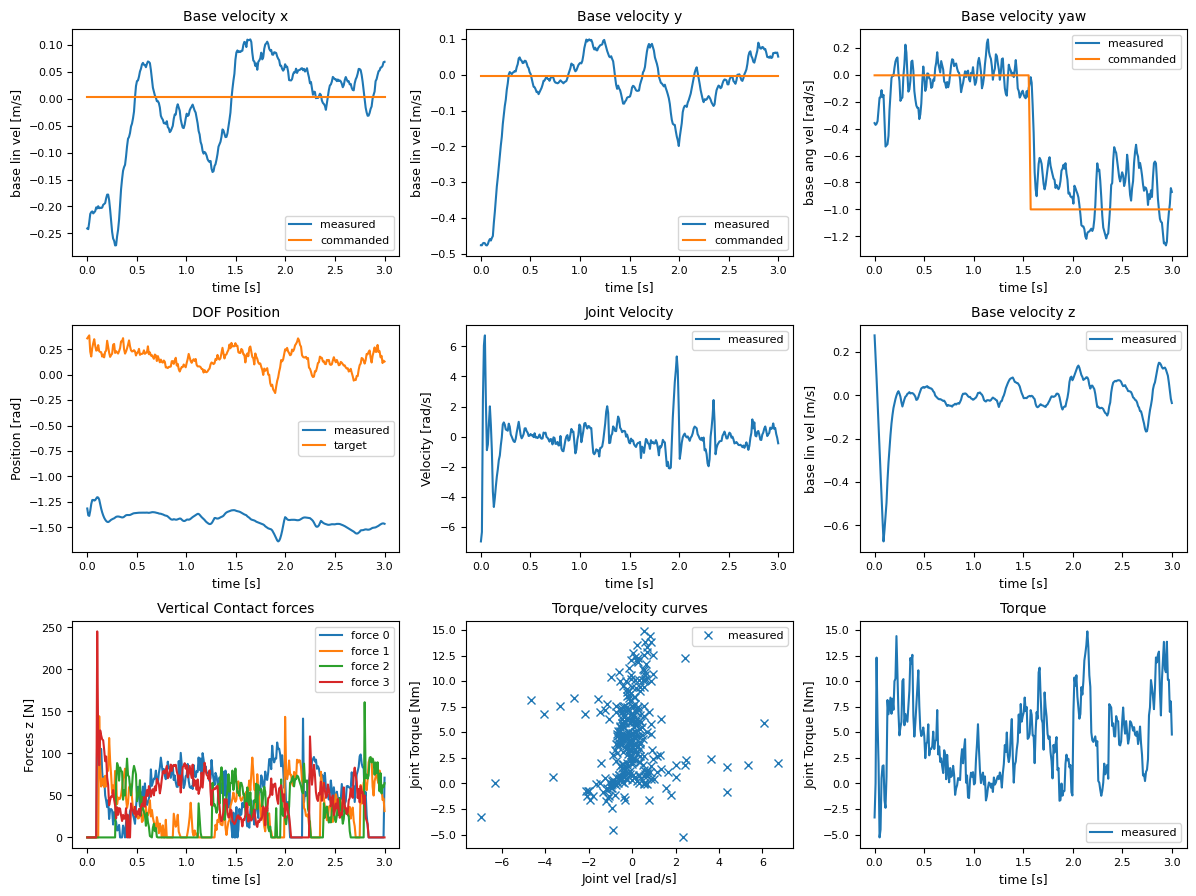
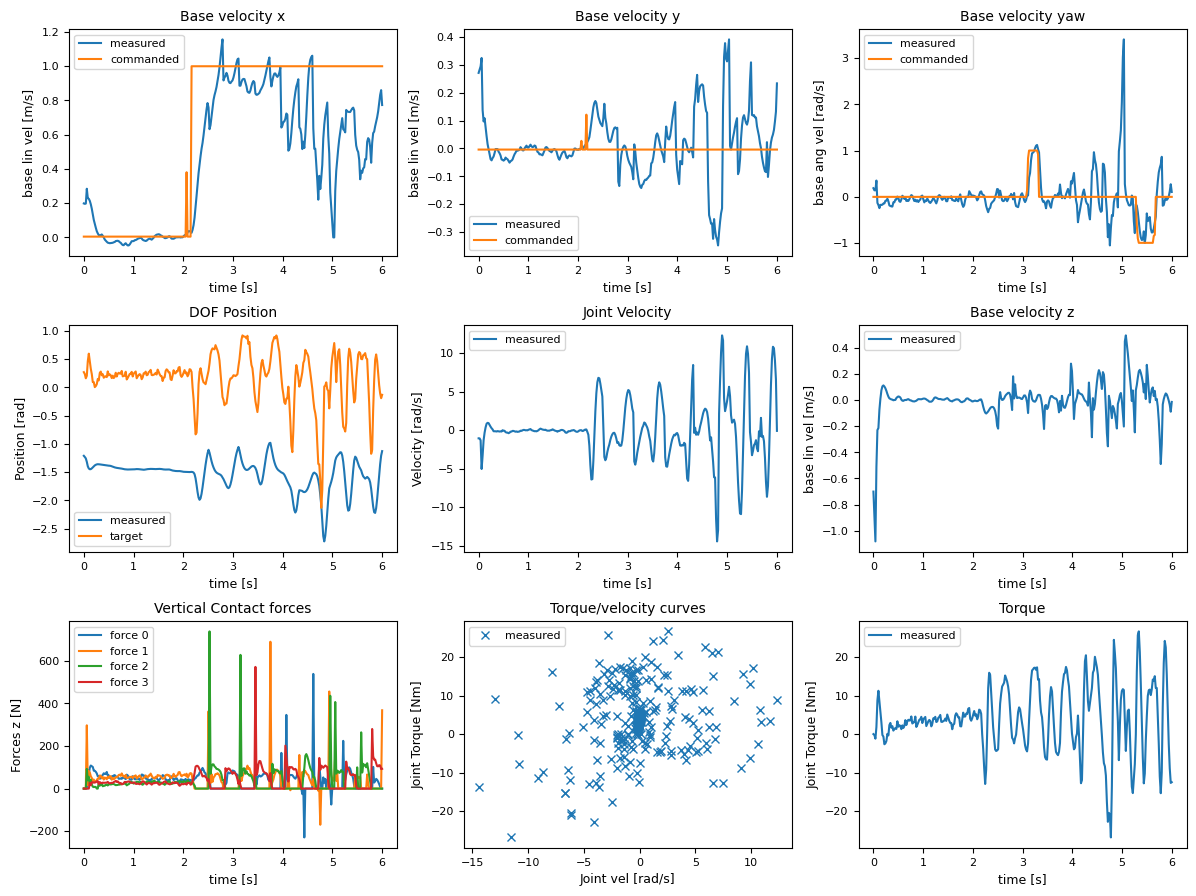
doing some testing. Need to restart on PACT if we want to really consider stair climbing

diff --git a/legged_gym/scripts/play_exp_water.py b/legged_gym/scripts/play_exp_water.py
@@ -20,7 +20,7 @@ def override_configs(env_cfg, train_cfg, args):
     task_name = args.task
     # override some parameters for testing
     # number of environments
-    env_cfg.env.num_envs = min(env_cfg.env.num_envs, 100)
+    env_cfg.env.num_envs = min(env_cfg.env.num_envs, 1)
     if "cts" in task_name:  # cts specific
         env_cfg.env.num_teacher = 1
     env_cfg.viewer.rendered_envs_idx = list(range(env_cfg.env.num_envs))
@@ -43,16 +43,16 @@ def override_configs(env_cfg, train_cfg, args):
         # env_cfg.terrain.terrain_kwargs = {"type": "terrain_utils.pyramid_sloped_terrain",
         #                                   "slope": 0.4, "platform_size": 3.0}
         # # stairs
-        env_cfg.terrain.terrain_kwargs = {"type": "terrain_utils.pyramid_stairs_terrain",
-                                        "step_width": 0.25, "step_height": -0.10, "platform_size": 3.0}
+        # env_cfg.terrain.terrain_kwargs = {"type": "terrain_utils.pyramid_stairs_terrain",
+                                        # "step_width": 0.25, "step_height": -0.06, "platform_size": 3.0}
 
         # # discrete obstacles
-        # env_cfg.terrain.terrain_kwargs = {"type": "terrain_utils.discrete_obstacles_terrain",
-        #                                   "max_height": 0.06,
-        #                                   "min_size": 1.0,
-        #                                   "max_size": 2.0,
-        #                                   "num_rects": 20,
-        #                                   "platform_size": 3.0}
+        env_cfg.terrain.terrain_kwargs = {"type": "terrain_utils.discrete_obstacles_terrain",
+                                          "max_height": 0.1,
+                                          "min_size": 1.0,
+                                          "max_size": 2.0,
+                                          "num_rects": 20,
+                                          "platform_size": 3.0}
         # # wave terrain
         # env_cfg.terrain.terrain_kwargs = {"type": "terrain_utils.wave_terrain", 
         #                                   "amplitude": 0.2, "num_waves": 2}
@@ -88,7 +88,7 @@ def override_configs(env_cfg, train_cfg, args):
     env_cfg.domain_rand.randomize_com_displacement = False
     env_cfg.domain_rand.randomize_pd_gain = False           # Maybe keep this on?
     env_cfg.domain_rand.push_robots = False
-    env_cfg.domain_rand.randomize_base_mass = True
+    env_cfg.domain_rand.randomize_base_mass = False
 
     env_cfg.asset.fix_base_link = False
     env_cfg.env.debug_viz = False
@@ -260,24 +260,24 @@ def interaction_loop(train_cfg, env, policy, args):
 
         # print(env.simulator.feedforward_torques.detach().cpu().numpy())
 
-        logger.log_states(
-            {
-                'base_cmd':env.commands.detach().cpu().numpy().tolist(),
-                'base_pose':env.simulator.base_pos.detach().cpu().numpy().tolist(),
-                'base_rpy':env.simulator.base_euler.detach().cpu().numpy().tolist(),
-                'dof_pose':env.simulator.dof_pos.detach().cpu().numpy().tolist(),
-                'base_lin_vel':env.simulator.base_lin_vel.detach().cpu().numpy().tolist(),
-                'base_ang_vel':env.simulator.base_ang_vel.detach().cpu().numpy().tolist(),
-                'dof_vel':env.simulator.dof_vel.detach().cpu().numpy().tolist(),
-                'proj_grav':env.simulator.projected_gravity.detach().cpu().numpy().tolist(),
-                'feet_pos':env.simulator.feet_pos.detach().cpu().numpy().tolist(),
-                'tau_act':env.simulator._dof_tau.detach().cpu().numpy().tolist(),
-                'grf':env.simulator._grfs_buf.detach().cpu().numpy().tolist(),
-                'q_des':env.get_scaled_pos_actions().detach().cpu().numpy().tolist(),
-                'tau_ff':env.simulator.feedforward_torques.detach().cpu().numpy().tolist(),
-                'tau_pd':env.simulator.first_loop_feedback.detach().cpu().numpy().tolist(),
-                'failure':list(map(int, env.get_failure_idx().detach().cpu().numpy().tolist()))
-            })
+        # logger.log_states(
+        #     {
+        #         'base_cmd':env.commands.detach().cpu().numpy().tolist(),
+        #         'base_pose':env.simulator.base_pos.detach().cpu().numpy().tolist(),
+        #         'base_rpy':env.simulator.base_euler.detach().cpu().numpy().tolist(),
+        #         'dof_pose':env.simulator.dof_pos.detach().cpu().numpy().tolist(),
+        #         'base_lin_vel':env.simulator.base_lin_vel.detach().cpu().numpy().tolist(),
+        #         'base_ang_vel':env.simulator.base_ang_vel.detach().cpu().numpy().tolist(),
+        #         'dof_vel':env.simulator.dof_vel.detach().cpu().numpy().tolist(),
+        #         'proj_grav':env.simulator.projected_gravity.detach().cpu().numpy().tolist(),
+        #         'feet_pos':env.simulator.feet_pos.detach().cpu().numpy().tolist(),
+        #         'tau_act':env.simulator._dof_tau.detach().cpu().numpy().tolist(),
+        #         'grf':env.simulator._grfs_buf.detach().cpu().numpy().tolist(),
+        #         'q_des':env.get_scaled_pos_actions().detach().cpu().numpy().tolist(),
+        #         'tau_ff':env.simulator.feedforward_torques.detach().cpu().numpy().tolist(),
+        #         'tau_pd':env.simulator.first_loop_feedback.detach().cpu().numpy().tolist(),
+        #         'failure':list(map(int, env.get_failure_idx().detach().cpu().numpy().tolist()))
+        #     })
 
 def export_policy(alg_runner, path: str, args, env_cfg, train_cfg):
     """export the policy as jit script according to different task types
@@ -316,7 +316,7 @@ def play(args):
     """
     if SIMULATOR == "genesis" or SIMULATOR == "genesis_pact_pos" or SIMULATOR == "genesis_pact" or SIMULATOR == "genesis_pact_water":
         init_genesis(args, gs)
-    env_cfg, train_cfg = task_registry.get_cfgs(name=args.task)
+    env_cfg, train_cfg = task_registry.get_cfgs(name=args.task, args=args)
     override_configs(env_cfg, train_cfg, args)
 
     # prepare environment
@@ -366,6 +366,9 @@ if __name__ == '__main__':
     parser.add_argument('--joystick_type',  type=str, default='xbox', help="type of joystick: xbox, switch")
     parser.add_argument('--follow_robot',   action='store_true', default=False, help="whether the camera follows the robot during play")
     parser.add_argument('--record_frames',   action='store_true', default=False, help="whether to record the camera")
+    parser.add_argument('--seed',       type=int, default=1, help="int seed for random sampling (default 1)")
+
+    parser.add_argument('--pinn_loss_weight',       type=float, default=0.01, help="float for weight of PINN loss (default 0.01)")
 
     parser.add_argument('--use_liquid',    type=bool, default='True')
     parser.add_argument('--liquid_type',   type=str, default='water', choices=['water', 'oil', 'gas'])

diff --git a/legged_gym/envs/go1/go1_pact_water_eval/go1_pact_water_config.py b/legged_gym/envs/go1/go1_pact_water_eval/go1_pact_water_config.py
@@ -3,50 +3,50 @@ from legged_gym.envs.base.legged_robot_config import LeggedRobotCfg, LeggedRobot
 class GO1PACTWaterCfg( LeggedRobotCfg ):
         
     class terrain( LeggedRobotCfg.terrain ):
-        mesh_type = 'plane' # plane, heightfield, trimesh
-        plane_length = 200.0 # [m]. plane size is 200x200x10 by default
-        horizontal_scale = 0.1 # [m] distance between height samples in x and y direction
-        vertical_scale = 0.005 # [m] distance between height samples in z direction
-        border_size = 5 # [m] length of the border surrounding the terrain
-        border_height = 1.0 # [m] height of the border surrounding the terrain
-        curriculum = False # whether to use terrain curriculum, starting from easier terrains and gradually increasing the difficulty
-        static_friction = 1.0 # coefficient of static friction of the terrain
-        dynamic_friction = 1.0 # coefficient of dynamic friction of the terrain
-        restitution = 0. # coefficient of restitution of the terrainr
-        obtain_terrain_info_around_feet = True
-
-        # # rough terrain only:
-        # mesh_type = "heightfield"
+        # mesh_type = 'plane' # plane, heightfield, trimesh
+        # plane_length = 200.0 # [m]. plane size is 200x200x10 by default
+        # horizontal_scale = 0.1 # [m] distance between height samples in x and y direction
+        # vertical_scale = 0.005 # [m] distance between height samples in z direction
+        # border_size = 5 # [m] length of the border surrounding the terrain
+        # border_height = 1.0 # [m] height of the border surrounding the terrain
+        # curriculum = False # whether to use terrain curriculum, starting from easier terrains and gradually increasing the difficulty
         # static_friction = 1.0 # coefficient of static friction of the terrain
         # dynamic_friction = 1.0 # coefficient of dynamic friction of the terrain
-        # restitution = 0. # coefficient of restitution of the terrain
-        # border_size = 20.0 # [m]
-        # curriculum = True
-        # # obtain terrain height information around feet (default: 9 points around feet), measure_
-        # # x  x   x
-        # # x F(x) x
-        # # x  x   x (x: height point, F: foot position)
+        # restitution = 0. # coefficient of restitution of the terrainr
         # obtain_terrain_info_around_feet = True
-        # measure_heights = True # obtain height measurements
+
+        # rough terrain only:
+        mesh_type = "heightfield"
+        static_friction = 1.0 # coefficient of static friction of the terrain
+        dynamic_friction = 1.0 # coefficient of dynamic friction of the terrain
+        restitution = 0. # coefficient of restitution of the terrain
+        border_size = 20.0 # [m]
+        curriculum = True
+        # obtain terrain height information around feet (default: 9 points around feet), measure_
+        # x  x   x
+        # x F(x) x
+        # x  x   x (x: height point, F: foot position)
+        obtain_terrain_info_around_feet = True
+        measure_heights = True # obtain height measurements
         
-        # # positions of the sampling height around the base (relative to the base of the robot)
-        # measured_points_x = [-0.4, -0.3, -0.2, -0.1, 0., 0.1, 0.2, 0.3, 0.4] # 9x9=81
-        # measured_points_y = [-0.4, -0.3, -0.2, -0.1, 0., 0.1, 0.2, 0.3, 0.4]
+        # positions of the sampling height around the base (relative to the base of the robot)
+        measured_points_x = [-0.4, -0.3, -0.2, -0.1, 0., 0.1, 0.2, 0.3, 0.4] # 9x9=81
+        measured_points_y = [-0.4, -0.3, -0.2, -0.1, 0., 0.1, 0.2, 0.3, 0.4]
         
-        # selected = False # select a unique terrain type and pass all arguments
-        # terrain_kwargs = None # Dict of arguments for selected terrain
-        # max_init_terrain_level = 1 # starting curriculum level
+        selected = False # select a unique terrain type and pass all arguments
+        terrain_kwargs = None # Dict of arguments for selected terrain
+        max_init_terrain_level = 1 # starting curriculum level
         
-        # terrain_length = 8.0 # [m] length of each subterrain, X direction
-        # terrain_width = 8.0 # [m] width of each subterrain, Y direction
-        # platform_size = 4.0 # [m] size of the flat platform at the center of each subterrain
-        # num_rows = 20  # number of terrain rows (levels), X direction
-        # num_cols = 10  # number of terrain cols (types), Y direction
-        # num_subterrains = num_rows * num_cols
-        # # terrain types: [smooth slope, rough slope, stairs up, stairs down, discrete, wave]
-        # terrain_proportions = [0.10, 0.20, 0.20, 0.20, 0.15, 0.15]
-        # # trimesh only:
-        # slope_treshold = 0.75 # slopes above this threshold will be corrected to vertical surfaces
+        terrain_length = 8.0 # [m] length of each subterrain, X direction
+        terrain_width = 8.0 # [m] width of each subterrain, Y direction
+        platform_size = 4.0 # [m] size of the flat platform at the center of each subterrain
+        num_rows = 20  # number of terrain rows (levels), X direction
+        num_cols = 10  # number of terrain cols (types), Y direction
+        num_subterrains = num_rows * num_cols
+        # terrain types: [smooth slope, rough slope, stairs up, stairs down, discrete, wave]
+        terrain_proportions = [0.10, 0.20, 0.20, 0.20, 0.15, 0.15]
+        # trimesh only:
+        slope_treshold = 0.75 # slopes above this threshold will be corrected to vertical surfaces
 
     class sim:
         # Common
@@ -498,7 +498,8 @@ class GO1PACTWaterCfgPPO( LeggedRobotCfgPPO ):
         save_interval = 100
         
         
-        load_run = "Apr08_00-53-18_pact_100hz_spec"
+        load_run = "Apr19_18-20-16_pact_100hz_spec_materr"
+        # load_run = "Apr08_00-53-18_pact_100hz_spec"
         checkpoint = -1
         resume = False
         exp_data_path = "exp_data/scratch_pact_exp/strict_overeach_model_plane_12L_water.csv"

diff --git a/legged_gym/scripts/play.py b/legged_gym/scripts/play.py
@@ -33,15 +33,15 @@ def override_configs(env_cfg, args):
         
         
         # random uniform terrain
-        env_cfg.terrain.terrain_kwargs = {"type": "terrain_utils.random_uniform_terrain", 
-                                          "min_height" : -0.05, "max_height": 0.05, 
-                                          "step":0.005, "downsampled_scale" : 0.2}
+        # env_cfg.terrain.terrain_kwargs = {"type": "terrain_utils.random_uniform_terrain", 
+                                        #   "min_height" : -0.05, "max_height": 0.05, 
+                                        #   "step":0.005, "downsampled_scale" : 0.2}
         # slope
         # env_cfg.terrain.terrain_kwargs = {"type": "terrain_utils.pyramid_sloped_terrain",
         #                                   "slope": -0.4, "platform_size": 3.0}
         # stairs
-        # env_cfg.terrain.terrain_kwargs = {"type": "terrain_utils.pyramid_stairs_terrain",
-                                        # "step_width": 0.31, "step_height": -0.1, "platform_size": 3.0}
+        env_cfg.terrain.terrain_kwargs = {"type": "terrain_utils.pyramid_stairs_terrain",
+                                        "step_width": 0.31, "step_height": -0.15, "platform_size": 3.0}
         # discrete obstacles
         # env_cfg.terrain.terrain_kwargs = {"type": "terrain_utils.discrete_obstacles_terrain",
         #                                   "max_height": 0.1,
@@ -244,7 +244,7 @@ def play(args):
     """
     if SIMULATOR == "genesis" or SIMULATOR == "genesis_pact_pos" or SIMULATOR == "genesis_pact":
         init_genesis(args, gs)
-    env_cfg, train_cfg = task_registry.get_cfgs(name=args.task)
+    env_cfg, train_cfg = task_registry.get_cfgs(name=args.task, args=args)
     override_configs(env_cfg, args)
 
     # prepare environment

diff --git a/legged_gym/scripts/play_exp.py b/legged_gym/scripts/play_exp.py
@@ -40,7 +40,7 @@ def override_configs(env_cfg, args):
         #                                   "slope": -0.4, "platform_size": 3.0}
         # stairs
         env_cfg.terrain.terrain_kwargs = {"type": "terrain_utils.pyramid_stairs_terrain",
-                                        "step_width": 0.31, "step_height": -0.1, "platform_size": 3.0}
+                                        "step_width": 0.31, "step_height": -0.06, "platform_size": 3.0}
         # # discrete obstacles
         # env_cfg.terrain.terrain_kwargs = {"type": "terrain_utils.discrete_obstacles_terrain",
         #                                   "max_height": 0.06,
@@ -290,7 +290,7 @@ def play(args):
     """
     if "genesis" in SIMULATOR:
         init_genesis(args, gs)
-    env_cfg, train_cfg = task_registry.get_cfgs(name=args.task)
+    env_cfg, train_cfg = task_registry.get_cfgs(name=args.task, args=args)
     override_configs(env_cfg, args)
 
     # prepare environment

diff --git a/legged_gym/envs/go1/go1_pact_pos/go1_pact_pos_config.py b/legged_gym/envs/go1/go1_pact_pos/go1_pact_pos_config.py
@@ -470,7 +470,7 @@ class GO1PACTPosCfgPPO( LeggedRobotCfgPPO ):
         save_interval = 500
         
         
-        load_run = "Apr16_15-59-26_pact_posboot_100hz_spec_grf"
+        load_run = "Apr17_15-22-31_pact_posboot_100hz_spec_grf"
         checkpoint = -1
         resume = False
         exp_data_path = ""
